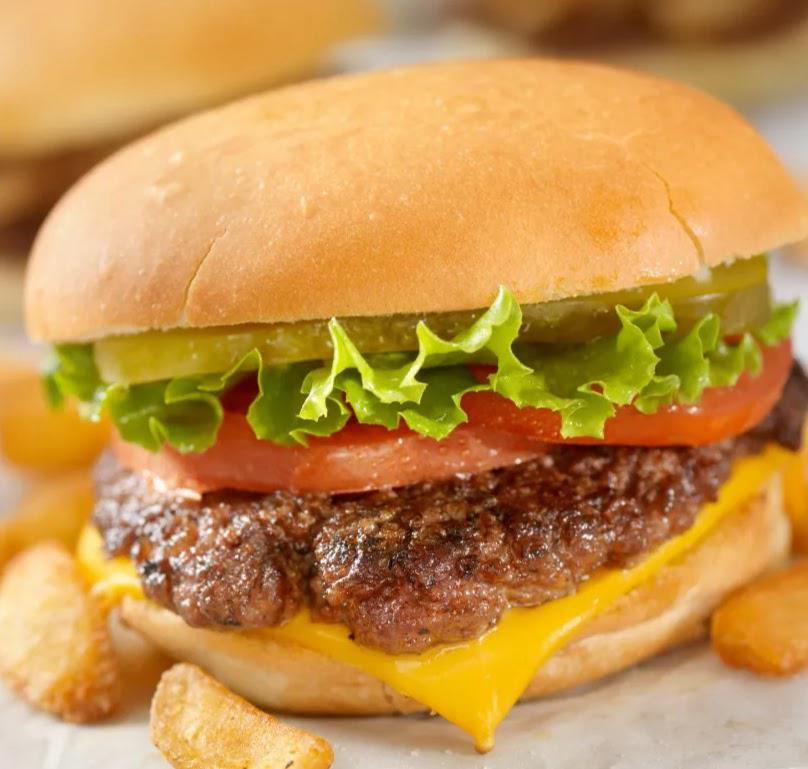
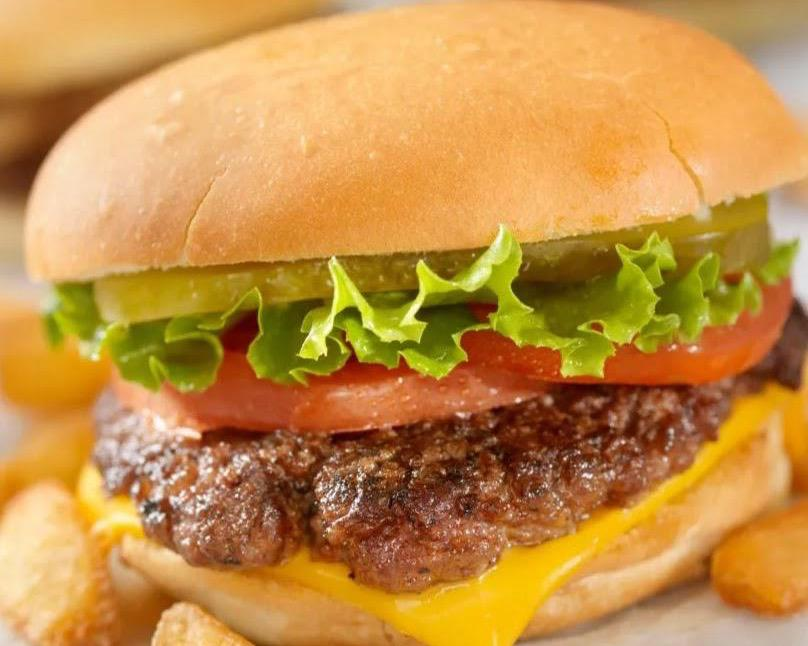
add new images to home

diff --git a/src/components/ImageComponents/ImageCompare.tsx b/src/components/ImageComponents/ImageCompare.tsx
@@ -2,8 +2,8 @@ import {
   ReactCompareSlider,
   ReactCompareSliderImage,
 } from "react-compare-slider";
-import GeneratedImage from "../../assets/GeneratedImage.jpeg";
-import OriginalImage from "../../assets/OriginalImage.jpeg";
+import GeneratedImage from "../../assets/generatedImage.jpeg";
+import OriginalImage from "../../assets/originalImage.jpeg";
 
 export default function ImageCompare() {
   return (
